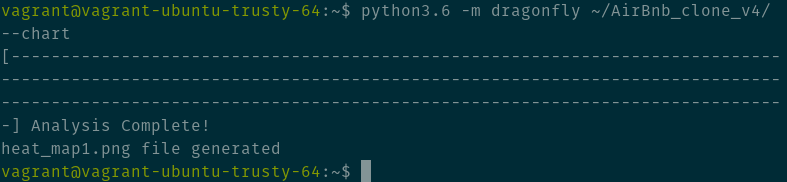
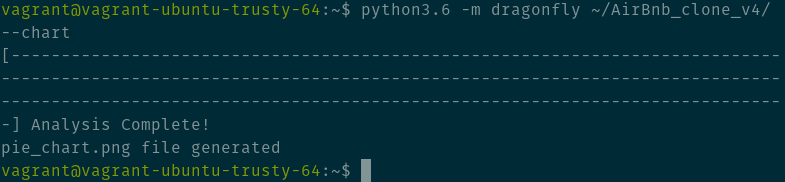
Updating landing page

diff --git a/docs/index.md b/docs/index.md
@@ -23,15 +23,19 @@
 * Chart output
   * Outputs a pie chart visualization of the analysis results
 ![](/img/dragonfly_chart.png)
-![](/img/heat_map1.png)
+![](/img/pie_chart.png)
 
 
 ## About
 * Hi! I'm Maddi, one of the developers for Dragonfly. This project was inspired by my husband, who is a long-time software developer. We were discussing the lack of tools available to get insight into code maturity. We came up with the idea of Dragonfly as an easy way to get a quick snapshot of where in your code you've had to fix the most bugs. Dragonfly's analysis can help with targeting code refactorings, familiarizing a new developer with a code base, or getting a deeper look at code maturity.
 * Dragonfly is a first year Portfolio Project for [Holberton School](https://www.holbertonschool.com/).
 * Development Team
-  * Finn Aspenson
   * Corbin Vandeventer
+    * [GitHub](https://github.com/forstupidityonly)
+    * [LinkedIn](https://www.linkedin.com/in/corbin-vandeventer-6551b71a9/)
+  * Finn Aspenson
+    * [GitHub](https://github.com/faspen)
+    * [LinkedIn](https://www.linkedin.com/in/finn-aspenson-0a23841b6/)
   * Maddi Laizure
     * [GitHub](https://github.com/mlaizure)
     * [LinkedIn](https://www.linkedin.com/in/maddi-laizure/)
